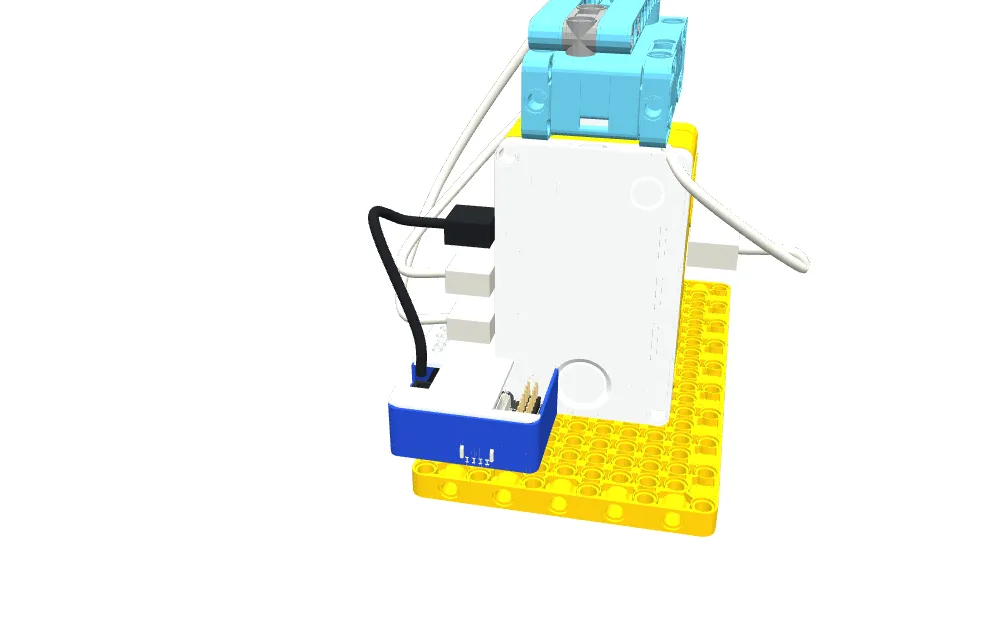
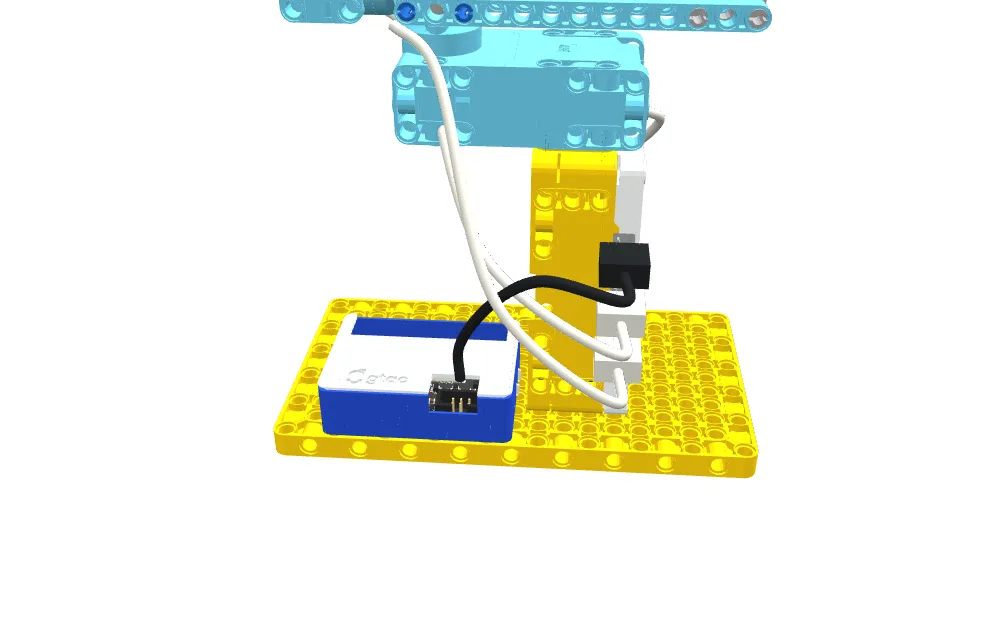
Arm 02/05: put the GTAC board behind the hub
In step 3 the board sat in front of the hub, over its buttons. It now sits on
the plate behind the hub on port A's side, clear of the hub, with the view
turned to show it from the back left. Frames re-rendered.

Changed region(s): [[0.248, 0.0, 0.806, 0.8438]]

diff --git a/robot_arm_updates_website/lms-esp32/frames/arm/manifest.js b/robot_arm_updates_website/lms-esp32/frames/arm/manifest.js
@@ -1,2 +1,2 @@
 // made by render_frames.py from arm-cables-3d.html
-window.FRAMES = {"w":1000,"h":640,"n":19,"center":9,"steps":[{"tags":[[[0.3789,0.5002],[0.6464,0.4405],[0.3812,0.6037],[0.644,0.5317],[0.3834,0.7034],[0.6417,0.6199],0,0,0,0],[[0.37,0.4955],[0.6504,0.4454],[0.3724,0.598],[0.6479,0.5376],[0.3748,0.6968],[0.6455,0.6268],0,0,0,0],[[0.3624,0.4905],[0.6534,0.4505],[0.365,0.5921],[0.6508,0.5438],[0.3674,0.6899],[0.6483,0.6339],0,0,0,0],[[0.3561,0.4854],[0.6553,0.4557],[0.3588,0.5858],[0.6527,0.5501],[0.3613,0.6827],[0.6501,0.6413],0,0,0,0],[[0.3512,0.48],[0.656,0.4611],[0.3538,0.5794],[0.6533,0.5565],[0.3564,0.6753],[0.6508,0.6488],0,0,0,0],[[0.3475,0.4746],[0.6556,0.4665],[0.3502,0.5729],[0.6528,0.5631],[0.3528,0.6677],[0.6502,0.6563],0,0,0,0],[[0.3451,0.4692],[0.6538,0.4719],[0.3479,0.5663],[0.6511,0.5696],[0.3505,0.6601],[0.6485,0.664],0,0,0,0],[[0.3441,0.4638],[0.6508,0.4774],[0.3468,0.5598],[0.6481,0.5762],[0.3494,0.6525],[0.6455,0.6715],0,0,0,0],[[0.3442,0.4584],[0.6465,0.4827],[0.3469,0.5533],[0.6438,0.5827],[0.3494,0.645],[0.6413,0.679],0,0,0,0],[[0.3455,0.4531],[0.6408,0.488],[0.3481,0.5469],[0.6383,0.589],[0.3506,0.6376],[0.6358,0.6864],0,0,0,0],[[0.348,0.4479],[0.6339,0.4931],[0.3505,0.5406],[0.6314,0.5951],[0.3529,0.6303],[0.629,0.6934],0,0,0,0],[[0.3515,0.4429],[0.6257,0.4979],[0.3539,0.5346],[0.6233,0.601],[0.3563,0.6233],[0.621,0.7002],0,0,0,0],[[0.356,0.4381],[0.6162,0.5025],[0.3583,0.5288],[0.614,0.6065],[0.3606,0.6166],[0.6119,0.7066],0,0,0,0],[[0.3615,0.4335],[0.6055,0.5067],[0.3637,0.5232],[0.6035,0.6115],[0.3659,0.6101],[0.6016,0.7124],0,0,0,0],[[0.3678,0.4292],[0.5937,0.5106],[0.3699,0.518],[0.5919,0.6162],[0.3719,0.604],[0.5902,0.7178],0,0,0,0],[[0.3749,0.4251],[0.581,0.5139],[0.3769,0.513],[0.5794,0.6202],[0.3788,0.5983],[0.5779,0.7225],0,0,0,0],[[0.3828,0.4213],[0.5673,0.5168],[0.3846,0.5084],[0.566,0.6237],[0.3864,0.5929],[0.5647,0.7265],0,0,0,0],[[0.3913,0.4178],[0.5529,0.5192],[0.393,0.5042],[0.5519,0.6265],[0.3946,0.5879],[0.5509,0.7298],0,0,0,0],[[0.4005,0.4146],[0.5379,0.521],[0.402,0.5003],[0.5372,0.6287],[0.4035,0.5834],[0.5365,0.7322],0,0,0,0]]},{"tags":[[0,[0.5599,0.5984],[0.5438,0.7734],0,[0.5433,0.8343],0,[0.335,0.2472],[0.3398,0.2723],[0.4745,0.4793],0],[0,[0.567,0.6014],[0.5343,0.7758],0,[0.5338,0.8369],0,[0.347,0.2442],[0.3416,0.269],[0.475,0.4783],0],[0,[0.5736,0.6048],[0.5244,0.7777],0,[0.524,0.8389],0,[0.3598,0.2415],[0.3446,0.2657],[0.4756,0.4774],0],[0,[0.5799,0.6086],[0.5142,0.7789],0,[0.514,0.8402],0,[0.3732,0.2391],[0.3486,0.2626],[0.4764,0.4765],0],[0,[0.5856,0.6126],[0.5039,0.7794],0,[0.5039,0.8408],0,[0.3871,0.2369],[0.3537,0.2596],[0.4774,0.4756],0],[0,[0.5908,0.6169],[0.4936,0.7794],0,[0.4937,0.8407],0,[0.4015,0.235],[0.3597,0.2568],[0.4785,0.4748],0],[0,[0.5954,0.6215],[0.4833,0.7786],0,[0.4835,0.8399],0,[0.4163,0.2334],[0.3665,0.2541],[0.4799,0.474],0],[0,[0.5993,0.6264],[0.4732,0.7773],0,[0.4735,0.8385],0,[0.4315,0.232],[0.3742,0.2516],[0.4813,0.4732],0],[0,[0.6026,0.6315],[0.4634,0.7753],0,[0.4638,0.8364],0,[0.4469,0.231],[0.3825,0.2493],[0.4829,0.4726],0],[0,[0.6052,0.6367],[0.4539,0.7727],0,[0.4545,0.8336],0,[0.4625,0.2302],[0.3916,0.2471],[0.4846,0.472],0],[0,[0.607,0.6422],[0.4449,0.7696],0,[0.4456,0.8303],0,[0.4783,0.2296],[0.4012,0.2452],[0.4864,0.4714],0],[0,[0.6081,0.6477],[0.4365,0.7659],0,[0.4372,0.8264],0,[0.4941,0.2294],[0.4113,0.2434],[0.4884,0.471],0],[0,[0.6083,0.6534],[0.4286,0.7618],0,[0.4295,0.8219],0,[0.51,0.2294],[0.4219,0.2419],[0.4904,0.4706],0],[0,[0.6077,0.659],[0.4214,0.7572],0,[0.4224,0.817],0,[0.5258,0.2297],[0.4328,0.2405],[0.4924,0.4702],0],[0,[0.6062,0.6647],[0.415,0.7522],0,[0.416,0.8117],0,[0.5415,0.2303],[0.4441,0.2394],[0.4946,0.47],0],[0,[0.6039,0.6703],[0.4093,0.7469],0,[0.4104,0.8061],0,[0.5571,0.2312],[0.4557,0.2385],[0.4967,0.4698],0],[0,[0.6007,0.6759],[0.4045,0.7414],0,[0.4056,0.8001],0,[0.5724,0.2323],[0.4675,0.2378],[0.4989,0.4698],0],[0,[0.5967,0.6812],[0.4004,0.7356],0,[0.4016,0.7939],0,[0.5875,0.2338],[0.4794,0.2373],[0.5011,0.4698],0],[0,[0.5917,0.6864],[0.3973,0.7296],0,[0.3985,0.7876],0,[0.6022,0.2355],[0.4915,0.2371],[0.5033,0.4698],0]]},{"tags":[[[0.4595,0.3976],0,0,0,0,0,0,0,0,[0.5269,0.5922]],[[0.4566,0.3953],0,0,0,0,0,0,0,0,[0.5196,0.5938]],[[0.454,0.3929],0,0,0,0,0,0,0,0,[0.512,0.5949]],[[0.4518,0.3904],0,0,0,0,0,0,0,0,[0.5044,0.5955]],[[0.45,0.3877],0,0,0,0,0,0,0,0,[0.4967,0.5955]],[[0.4486,0.385],0,0,0,0,0,0,0,0,[0.489,0.595]],[[0.4476,0.3822],0,0,0,0,0,0,0,0,[0.4814,0.594]],[[0.447,0.3794],0,0,0,0,0,0,0,0,[0.474,0.5924]],[[0.4469,0.3766],0,0,0,0,0,0,0,0,[0.4669,0.5904]],[[0.4471,0.3738],0,0,0,0,0,0,0,0,[0.46,0.5879]],[[0.4477,0.371],0,0,0,0,0,0,0,0,[0.4536,0.5849]],[[0.4488,0.3683],0,0,0,0,0,0,0,0,[0.4475,0.5815]],[[0.4501,0.3656],0,0,0,0,0,0,0,0,[0.4419,0.5777]],[[0.4519,0.3631],0,0,0,0,0,0,0,0,[0.4368,0.5735]],[[0.454,0.3606],0,0,0,0,0,0,0,0,[0.4323,0.5691]],[[0.4564,0.3583],0,0,0,0,0,0,0,0,[0.4284,0.5644]],[[0.4592,0.3562],0,0,0,0,0,0,0,0,[0.425,0.5595]],[[0.4622,0.3541],0,0,0,0,0,0,0,0,[0.4223,0.5544]],[[0.4655,0.3523],0,0,0,0,0,0,0,0,[0.4203,0.5491]]]}],"trans":{"0-1":{"n":11,"tags":[[0,0,0,0,0,0,0,0,0,0],[0,0,0,0,0,0,0,0,0,0],[0,0,0,0,0,0,0,0,0,0],[0,0,0,0,0,0,0,0,0,0],[0,0,0,0,0,0,0,0,0,0],[0,0,0,0,0,0,0,0,0,0],[0,0,0,0,0,0,0,0,0,0],[0,0,0,0,0,0,0,0,0,0],[0,0,0,0,0,0,0,0,0,0],[0,0,0,0,0,0,0,0,0,0],[0,0,0,0,0,0,0,0,0,0]]},"1-2":{"n":11,"tags":[[0,0,0,0,0,0,0,0,0,0],[0,0,0,0,0,0,0,0,0,0],[0,0,0,0,0,0,0,0,0,0],[0,0,0,0,0,0,0,0,0,0],[0,0,0,0,0,0,0,0,0,0],[0,0,0,0,0,0,0,0,0,0],[0,0,0,0,0,0,0,0,0,0],[0,0,0,0,0,0,0,0,0,0],[0,0,0,0,0,0,0,0,0,0],[0,0,0,0,0,0,0,0,0,0],[0,0,0,0,0,0,0,0,0,0]]}},"bg":"rgb(255,255,255)"};
+window.FRAMES = {"w":1000,"h":640,"n":19,"center":9,"steps":[{"tags":[[[0.3789,0.5002],[0.6464,0.4405],[0.3812,0.6037],[0.644,0.5317],[0.3834,0.7034],[0.6417,0.6199],0,0,0,0],[[0.37,0.4955],[0.6504,0.4454],[0.3724,0.598],[0.6479,0.5376],[0.3748,0.6968],[0.6455,0.6268],0,0,0,0],[[0.3624,0.4905],[0.6534,0.4505],[0.365,0.5921],[0.6508,0.5438],[0.3674,0.6899],[0.6483,0.6339],0,0,0,0],[[0.3561,0.4854],[0.6553,0.4557],[0.3588,0.5858],[0.6527,0.5501],[0.3613,0.6827],[0.6501,0.6413],0,0,0,0],[[0.3512,0.48],[0.656,0.4611],[0.3538,0.5794],[0.6533,0.5565],[0.3564,0.6753],[0.6508,0.6488],0,0,0,0],[[0.3475,0.4746],[0.6556,0.4665],[0.3502,0.5729],[0.6528,0.5631],[0.3528,0.6677],[0.6502,0.6563],0,0,0,0],[[0.3451,0.4692],[0.6538,0.4719],[0.3479,0.5663],[0.6511,0.5696],[0.3505,0.6601],[0.6485,0.664],0,0,0,0],[[0.3441,0.4638],[0.6508,0.4774],[0.3468,0.5598],[0.6481,0.5762],[0.3494,0.6525],[0.6455,0.6715],0,0,0,0],[[0.3442,0.4584],[0.6465,0.4827],[0.3469,0.5533],[0.6438,0.5827],[0.3494,0.645],[0.6413,0.679],0,0,0,0],[[0.3455,0.4531],[0.6408,0.488],[0.3481,0.5469],[0.6383,0.589],[0.3506,0.6376],[0.6358,0.6864],0,0,0,0],[[0.348,0.4479],[0.6339,0.4931],[0.3505,0.5406],[0.6314,0.5951],[0.3529,0.6303],[0.629,0.6934],0,0,0,0],[[0.3515,0.4429],[0.6257,0.4979],[0.3539,0.5346],[0.6233,0.601],[0.3563,0.6233],[0.621,0.7002],0,0,0,0],[[0.356,0.4381],[0.6162,0.5025],[0.3583,0.5288],[0.614,0.6065],[0.3606,0.6166],[0.6119,0.7066],0,0,0,0],[[0.3615,0.4335],[0.6055,0.5067],[0.3637,0.5232],[0.6035,0.6115],[0.3659,0.6101],[0.6016,0.7124],0,0,0,0],[[0.3678,0.4292],[0.5937,0.5106],[0.3699,0.518],[0.5919,0.6162],[0.3719,0.604],[0.5902,0.7178],0,0,0,0],[[0.3749,0.4251],[0.581,0.5139],[0.3769,0.513],[0.5794,0.6202],[0.3788,0.5983],[0.5779,0.7225],0,0,0,0],[[0.3828,0.4213],[0.5673,0.5168],[0.3846,0.5084],[0.566,0.6237],[0.3864,0.5929],[0.5647,0.7265],0,0,0,0],[[0.3913,0.4178],[0.5529,0.5192],[0.393,0.5042],[0.5519,0.6265],[0.3946,0.5879],[0.5509,0.7298],0,0,0,0],[[0.4005,0.4146],[0.5379,0.521],[0.402,0.5003],[0.5372,0.6287],[0.4035,0.5834],[0.5365,0.7322],0,0,0,0]]},{"tags":[[0,[0.5599,0.5984],[0.5438,0.7734],0,[0.5433,0.8343],0,[0.335,0.2472],[0.3398,0.2723],[0.4745,0.4793],0],[0,[0.567,0.6014],[0.5343,0.7758],0,[0.5338,0.8369],0,[0.347,0.2442],[0.3416,0.269],[0.475,0.4783],0],[0,[0.5736,0.6048],[0.5244,0.7777],0,[0.524,0.8389],0,[0.3598,0.2415],[0.3446,0.2657],[0.4756,0.4774],0],[0,[0.5799,0.6086],[0.5142,0.7789],0,[0.514,0.8402],0,[0.3732,0.2391],[0.3486,0.2626],[0.4764,0.4765],0],[0,[0.5856,0.6126],[0.5039,0.7794],0,[0.5039,0.8408],0,[0.3871,0.2369],[0.3537,0.2596],[0.4774,0.4756],0],[0,[0.5908,0.6169],[0.4936,0.7794],0,[0.4937,0.8407],0,[0.4015,0.235],[0.3597,0.2568],[0.4785,0.4748],0],[0,[0.5954,0.6215],[0.4833,0.7786],0,[0.4835,0.8399],0,[0.4163,0.2334],[0.3665,0.2541],[0.4799,0.474],0],[0,[0.5993,0.6264],[0.4732,0.7773],0,[0.4735,0.8385],0,[0.4315,0.232],[0.3742,0.2516],[0.4813,0.4732],0],[0,[0.6026,0.6315],[0.4634,0.7753],0,[0.4638,0.8364],0,[0.4469,0.231],[0.3825,0.2493],[0.4829,0.4726],0],[0,[0.6052,0.6367],[0.4539,0.7727],0,[0.4545,0.8336],0,[0.4625,0.2302],[0.3916,0.2471],[0.4846,0.472],0],[0,[0.607,0.6422],[0.4449,0.7696],0,[0.4456,0.8303],0,[0.4783,0.2296],[0.4012,0.2452],[0.4864,0.4714],0],[0,[0.6081,0.6477],[0.4365,0.7659],0,[0.4372,0.8264],0,[0.4941,0.2294],[0.4113,0.2434],[0.4884,0.471],0],[0,[0.6083,0.6534],[0.4286,0.7618],0,[0.4295,0.8219],0,[0.51,0.2294],[0.4219,0.2419],[0.4904,0.4706],0],[0,[0.6077,0.659],[0.4214,0.7572],0,[0.4224,0.817],0,[0.5258,0.2297],[0.4328,0.2405],[0.4924,0.4702],0],[0,[0.6062,0.6647],[0.415,0.7522],0,[0.416,0.8117],0,[0.5415,0.2303],[0.4441,0.2394],[0.4946,0.47],0],[0,[0.6039,0.6703],[0.4093,0.7469],0,[0.4104,0.8061],0,[0.5571,0.2312],[0.4557,0.2385],[0.4967,0.4698],0],[0,[0.6007,0.6759],[0.4045,0.7414],0,[0.4056,0.8001],0,[0.5724,0.2323],[0.4675,0.2378],[0.4989,0.4698],0],[0,[0.5967,0.6812],[0.4004,0.7356],0,[0.4016,0.7939],0,[0.5875,0.2338],[0.4794,0.2373],[0.5011,0.4698],0],[0,[0.5917,0.6864],[0.3973,0.7296],0,[0.3985,0.7876],0,[0.6022,0.2355],[0.4915,0.2371],[0.5033,0.4698],0]]},{"tags":[[[0.5473,0.3067],0,0,0,0,0,0,0,0,[0.5366,0.5616]],[[0.5568,0.3096],0,0,0,0,0,0,0,0,[0.533,0.5642]],[[0.5659,0.313],0,0,0,0,0,0,0,0,[0.5291,0.5665]],[[0.5746,0.3169],0,0,0,0,0,0,0,0,[0.525,0.5686]],[[0.583,0.3213],0,0,0,0,0,0,0,0,[0.5207,0.5703]],[[0.5908,0.3263],0,0,0,0,0,0,0,0,[0.5162,0.5716]],[[0.5981,0.3316],0,0,0,0,0,0,0,0,[0.5115,0.5727]],[[0.6048,0.3375],0,0,0,0,0,0,0,0,[0.5068,0.5734]],[[0.6108,0.3437],0,0,0,0,0,0,0,0,[0.502,0.5737]],[[0.6161,0.3503],0,0,0,0,0,0,0,0,[0.4972,0.5737]],[[0.6207,0.3573],0,0,0,0,0,0,0,0,[0.4924,0.5733]],[[0.6244,0.3646],0,0,0,0,0,0,0,0,[0.4877,0.5725]],[[0.6273,0.3721],0,0,0,0,0,0,0,0,[0.4831,0.5714]],[[0.6292,0.3799],0,0,0,0,0,0,0,0,[0.4786,0.57]],[[0.6302,0.3878],0,0,0,0,0,0,0,0,[0.4743,0.5682]],[[0.6303,0.3958],0,0,0,0,0,0,0,0,[0.4702,0.5662]],[[0.6293,0.4039],0,0,0,0,0,0,0,0,[0.4664,0.5638]],[[0.6272,0.4119],0,0,0,0,0,0,0,0,[0.4629,0.5612]],[[0.6241,0.4199],0,0,0,0,0,0,0,0,[0.4597,0.5583]]]}],"trans":{"0-1":{"n":11,"tags":[[0,0,0,0,0,0,0,0,0,0],[0,0,0,0,0,0,0,0,0,0],[0,0,0,0,0,0,0,0,0,0],[0,0,0,0,0,0,0,0,0,0],[0,0,0,0,0,0,0,0,0,0],[0,0,0,0,0,0,0,0,0,0],[0,0,0,0,0,0,0,0,0,0],[0,0,0,0,0,0,0,0,0,0],[0,0,0,0,0,0,0,0,0,0],[0,0,0,0,0,0,0,0,0,0],[0,0,0,0,0,0,0,0,0,0]]},"1-2":{"n":11,"tags":[[0,0,0,0,0,0,0,0,0,0],[0,0,0,0,0,0,0,0,0,0],[0,0,0,0,0,0,0,0,0,0],[0,0,0,0,0,0,0,0,0,0],[0,0,0,0,0,0,0,0,0,0],[0,0,0,0,0,0,0,0,0,0],[0,0,0,0,0,0,0,0,0,0],[0,0,0,0,0,0,0,0,0,0],[0,0,0,0,0,0,0,0,0,0],[0,0,0,0,0,0,0,0,0,0],[0,0,0,0,0,0,0,0,0,0]]}},"bg":"rgb(255,255,255)"};

diff --git a/robot_arm_updates_website/lms-esp32/arm-cables-3d.html b/robot_arm_updates_website/lms-esp32/arm-cables-3d.html
@@ -128,12 +128,14 @@ function boot(PLACE) {
       return { role, l, start, g };
     });
 
-    // The board: on the plate, in front of the hub on port A's side; its cable from the HUB header to port A
-    const bb = new THREE.Box3().setFromObject(board), hb = roleBox('hub');
+    // The board: on the plate behind the hub (away from its buttons), on port A's side with its HUB header nearest
+    // the hub; clear of the hub by GAP. Its cable runs from the HUB header round to port A.
+    const GAP = 3, hb = roleBox('hub');
     const pA = portAt('A'), outA = portOut('A');
-    board.position.set((all.min.x + hb.min.x) / 2 + 6 - (bb.min.x + bb.max.x) / 2, PLATE_TOP - bb.min.y,
-      all.max.z - 6 - bb.max.z);
     scene.add(board); board.updateMatrixWorld(true);
+    const bb = new THREE.Box3().setFromObject(board);
+    board.position.set(all.min.x + 1 - bb.min.x, PLATE_TOP - bb.min.y, hb.min.z - GAP - bb.max.z);
+    board.updateMatrixWorld(true);
     const hdr = V(4.97, 3.6 + 14, 40.24).applyMatrix4(board.matrixWorld);
     const endA = pA.clone().addScaledVector(outA, 13.7);
     const boardCable = new THREE.Group();
@@ -155,7 +157,7 @@ function boot(PLACE) {
   const VIEWS = [
     () => ({ t: hubC().add(V(0, 8, 0)), p: hubC().add(V(70, 80, 240)) }),
     () => ({ t: hubC().add(V(0, 55, -10)), p: hubC().add(V(-230, 170, 290)) }),
-    () => ({ t: hubC().add(V(-25, -10, 20)), p: hubC().add(V(-170, 130, 250)) }),
+    () => ({ t: hubC().add(V(-25, -10, -25)), p: hubC().add(V(-230, 150, -200)) }),
   ];
   let step = 0;
   const buttons = [...document.querySelectorAll('[data-step]')], say = document.getElementById('say');
